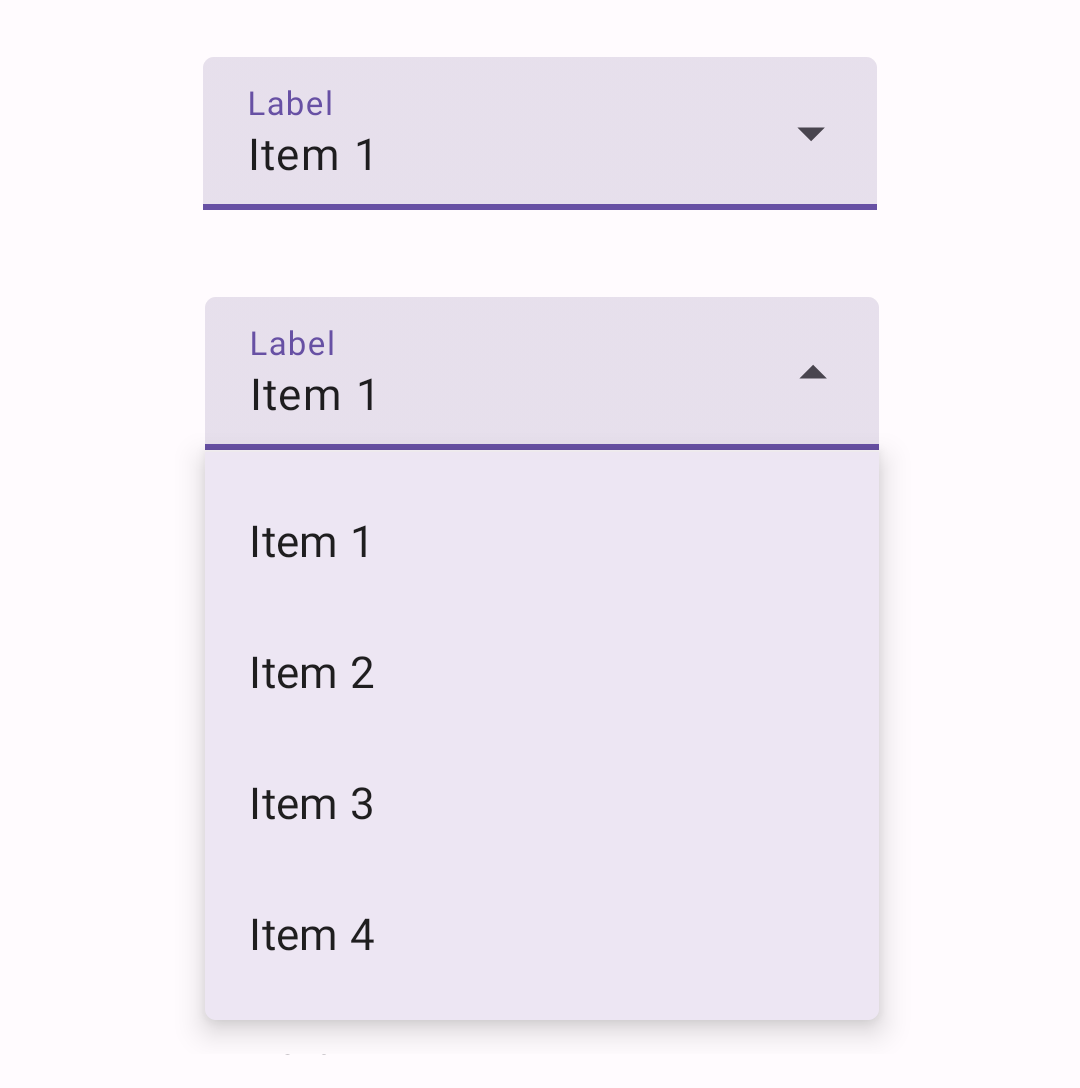
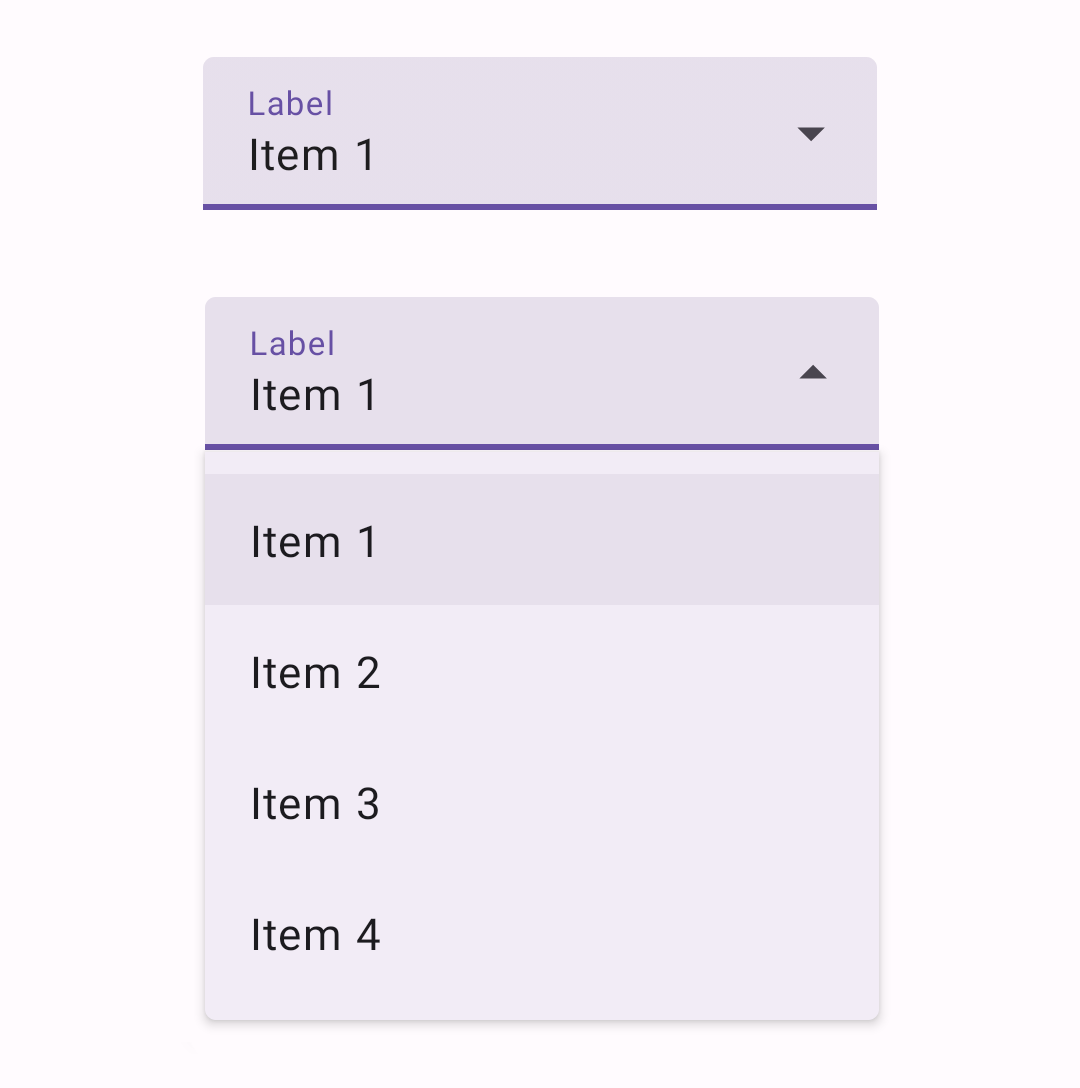
[ExposedDropdownMenu] Added support for default/ripple background colors for the selected item of the exposed dropdown menu when the default MaterialAutoCompleteArrayAdapter is being used.
PiperOrigin-RevId: 447531152

diff --git a/lib/java/com/google/android/material/textfield/MaterialAutoCompleteTextView.java b/lib/java/com/google/android/material/textfield/MaterialAutoCompleteTextView.java
@@ -21,15 +21,21 @@ import com.google.android.material.R;
 import static com.google.android.material.theme.overlay.MaterialThemeOverlay.wrap;
 
 import android.content.Context;
+import android.content.res.ColorStateList;
 import android.content.res.TypedArray;
+import android.graphics.Color;
 import android.graphics.Rect;
+import android.graphics.drawable.ColorDrawable;
 import android.graphics.drawable.Drawable;
+import android.graphics.drawable.RippleDrawable;
 import android.os.Build.VERSION;
+import android.os.Build.VERSION_CODES;
 import androidx.appcompat.widget.AppCompatAutoCompleteTextView;
 import androidx.appcompat.widget.ListPopupWindow;
 import android.text.InputType;
 import android.util.AttributeSet;
 import android.view.View;
+import android.view.ViewGroup;
 import android.view.ViewGroup.LayoutParams;
 import android.view.ViewParent;
 import android.view.accessibility.AccessibilityManager;
@@ -38,12 +44,17 @@ import android.widget.AdapterView.OnItemClickListener;
 import android.widget.ArrayAdapter;
 import android.widget.Filterable;
 import android.widget.ListAdapter;
+import android.widget.TextView;
 import androidx.annotation.ArrayRes;
 import androidx.annotation.LayoutRes;
 import androidx.annotation.NonNull;
 import androidx.annotation.Nullable;
+import androidx.core.graphics.drawable.DrawableCompat;
+import androidx.core.view.ViewCompat;
+import com.google.android.material.color.MaterialColors;
 import com.google.android.material.internal.ManufacturerUtils;
 import com.google.android.material.internal.ThemeEnforcement;
+import com.google.android.material.resources.MaterialResources;
 
 /**
  * A special sub-class of {@link android.widget.AutoCompleteTextView} that is auto-inflated so that
@@ -51,10 +62,10 @@ import com.google.android.material.internal.ThemeEnforcement;
  * interacted through a screen reader.
  *
  * <p>The {@link ListPopupWindow} of the {@link android.widget.AutoCompleteTextView} is not modal,
- * so it does not grab accessibility focus. The {@link MaterialAutoCompleteTextView} changes that
- * by having a modal {@link ListPopupWindow} that is displayed instead of the non-modal one, so that
- * the first item of the popup is automatically focused. This simulates the behavior of the
- * {@link android.widget.Spinner}.
+ * so it does not grab accessibility focus. The {@link MaterialAutoCompleteTextView} changes that by
+ * having a modal {@link ListPopupWindow} that is displayed instead of the non-modal one, so that
+ * the first item of the popup is automatically focused. This simulates the behavior of the {@link
+ * android.widget.Spinner}.
  */
 public class MaterialAutoCompleteTextView extends AppCompatAutoCompleteTextView {
 
@@ -65,6 +76,8 @@ public class MaterialAutoCompleteTextView extends AppCompatAutoCompleteTextView 
   @NonNull private final Rect tempRect = new Rect();
   @LayoutRes private final int simpleItemLayout;
   private final float popupElevation;
+  private int simpleItemSelectedColor;
+  @Nullable private ColorStateList simpleItemSelectedRippleColor;
 
   public MaterialAutoCompleteTextView(@NonNull Context context) {
     this(context, null);
@@ -100,14 +113,23 @@ public class MaterialAutoCompleteTextView extends AppCompatAutoCompleteTextView 
       }
     }
 
-    simpleItemLayout = attributes.getResourceId(
-        R.styleable.MaterialAutoCompleteTextView_simpleItemLayout,
-        R.layout.mtrl_auto_complete_simple_item);
-
+    simpleItemLayout =
+        attributes.getResourceId(
+            R.styleable.MaterialAutoCompleteTextView_simpleItemLayout,
+            R.layout.mtrl_auto_complete_simple_item);
     popupElevation =
         attributes.getDimensionPixelOffset(
             R.styleable.MaterialAutoCompleteTextView_android_popupElevation,
             R.dimen.mtrl_exposed_dropdown_menu_popup_elevation);
+
+    simpleItemSelectedColor =
+        attributes.getColor(
+            R.styleable.MaterialAutoCompleteTextView_simpleItemSelectedColor, Color.TRANSPARENT);
+    simpleItemSelectedRippleColor =
+        MaterialResources.getColorStateList(
+            context,
+            attributes,
+            R.styleable.MaterialAutoCompleteTextView_simpleItemSelectedRippleColor);
 
     accessibilityManager =
         (AccessibilityManager) context.getSystemService(Context.ACCESSIBILITY_SERVICE);
@@ -191,7 +213,65 @@ public class MaterialAutoCompleteTextView extends AppCompatAutoCompleteTextView 
    * @see #setAdapter(ListAdapter)
    */
   public void setSimpleItems(@NonNull String[] stringArray) {
-    setAdapter(new ArrayAdapter<>(getContext(), simpleItemLayout, stringArray));
+    setAdapter(new MaterialArrayAdapter<>(getContext(), simpleItemLayout, stringArray));
+  }
+
+  /**
+   * Sets the color of the default selected popup dropdown item to be used along with
+   * {@code R.attr.simpleItemLayout}.
+   *
+   * @param simpleItemSelectedColor the selected item color
+   * @see #getSimpleItemSelectedColor()
+   * @see #setSimpleItems(int)
+   * @attr ref
+   *     com.google.android.material.R.styleable#MaterialAutoCompleteTextView_simpleItemSelectedColor
+   */
+  public void setSimpleItemSelectedColor(int simpleItemSelectedColor) {
+    this.simpleItemSelectedColor = simpleItemSelectedColor;
+    if (getAdapter() instanceof MaterialArrayAdapter) {
+      ((MaterialArrayAdapter) getAdapter()).updateSelectedItemColorStateList();
+    }
+  }
+
+  /**
+   * Returns the color of the default selected popup dropdown item.
+   *
+   * @see #setSimpleItemSelectedColor(int)
+   * @attr ref
+   *     com.google.android.material.R.styleable#MaterialAutoCompleteTextView_simpleItemSelectedColor
+   */
+  public int getSimpleItemSelectedColor() {
+    return simpleItemSelectedColor;
+  }
+
+  /**
+   * Sets the ripple color of the selected popup dropdown item to be used along with
+   * {@code R.attr.simpleItemLayout}.
+   *
+   * @param simpleItemSelectedRippleColor the ripple color state list
+   * @see #getSimpleItemSelectedRippleColor()
+   * @see #setSimpleItems(int)
+   * @attr ref
+   *     com.google.android.material.R.styleable#MaterialAutoCompleteTextView_simpleItemSelectedRippleColor
+   */
+  public void setSimpleItemSelectedRippleColor(
+      @Nullable ColorStateList simpleItemSelectedRippleColor) {
+    this.simpleItemSelectedRippleColor = simpleItemSelectedRippleColor;
+    if (getAdapter() instanceof MaterialArrayAdapter) {
+      ((MaterialArrayAdapter) getAdapter()).updateSelectedItemColorStateList();
+    }
+  }
+
+  /**
+   * Returns the ripple color of the default selected popup dropdown item, or null if not set.
+   *
+   * @see #setSimpleItemSelectedRippleColor(ColorStateList)
+   * @attr ref
+   *     com.google.android.material.R.styleable#MaterialAutoCompleteTextView_simpleItemSelectedRippleColor
+   */
+  @Nullable
+  public ColorStateList getSimpleItemSelectedRippleColor() {
+    return simpleItemSelectedRippleColor;
   }
 
   /**
@@ -323,6 +403,112 @@ public class MaterialAutoCompleteTextView extends AppCompatAutoCompleteTextView 
       setAdapter(null);
       setText(convertSelectionToString(selectedItem));
       setAdapter((T) adapter);
+    }
+  }
+
+  /** ArrayAdapter for the {@link MaterialAutoCompleteTextView}. */
+  private class MaterialArrayAdapter<T> extends ArrayAdapter<String> {
+
+    @Nullable private ColorStateList selectedItemRippleOverlaidColor;
+    @Nullable private ColorStateList pressedRippleColor;
+
+    MaterialArrayAdapter(
+        @NonNull Context context, int resource, @NonNull String[] objects) {
+      super(context, resource, objects);
+      updateSelectedItemColorStateList();
+    }
+
+    void updateSelectedItemColorStateList() {
+      pressedRippleColor = sanitizeDropdownItemSelectedRippleColor();
+      selectedItemRippleOverlaidColor = createItemSelectedColorStateList();
+    }
+
+    @Override
+    public View getView(int position, @Nullable View convertView, ViewGroup parent) {
+      View view = super.getView(position, convertView, parent);
+
+      if (view instanceof TextView) {
+        TextView textView = (TextView) view;
+        boolean isSelectedItem = getText().toString().contentEquals(textView.getText());
+        ViewCompat.setBackground(textView, isSelectedItem ? getSelectedItemDrawable() : null);
+      }
+
+      return view;
+    }
+
+    @Nullable
+    private Drawable getSelectedItemDrawable() {
+      if (!hasSelectedColor() || VERSION.SDK_INT < VERSION_CODES.LOLLIPOP) {
+        return null;
+      }
+
+      // The adapter calls getView with the same position multiple times with different views,
+      // meaning we can't know which view is actually being used to show the list item. We need to
+      // create the drawable on every call, otherwise there can be a race condition causing the
+      // background color to not be updated to the right state.
+      Drawable colorDrawable = new ColorDrawable(simpleItemSelectedColor);
+      if (pressedRippleColor != null) {
+        // The ListPopupWindow takes over the states of its list items in order to implement its
+        // own ripple. That makes the RippleDrawable not work as expected, i.e. it will respond to
+        // pressed states, but not to other states like focused and hovered. To solve that, we
+        // create the selectedItemRippleOverlaidColor that will work in those missing states, making
+        // the selected list item stateful as expected.
+        DrawableCompat.setTintList(colorDrawable, selectedItemRippleOverlaidColor);
+        return new RippleDrawable(pressedRippleColor, colorDrawable, null);
+      } else {
+        return colorDrawable;
+      }
+    }
+
+    @Nullable
+    private ColorStateList createItemSelectedColorStateList() {
+      if (!hasSelectedColor()
+          || !hasSelectedRippleColor()
+          || VERSION.SDK_INT < VERSION_CODES.LOLLIPOP) {
+        return null;
+      }
+      int[] stateHovered = new int[] {android.R.attr.state_hovered, -android.R.attr.state_pressed};
+      int[] stateSelected =
+          new int[] {android.R.attr.state_selected, -android.R.attr.state_pressed};
+      int colorSelected =
+          simpleItemSelectedRippleColor.getColorForState(stateSelected, Color.TRANSPARENT);
+      int colorHovered =
+          simpleItemSelectedRippleColor.getColorForState(stateHovered, Color.TRANSPARENT);
+      // Use ripple colors overlaid over selected color.
+      int[] colors =
+          new int[] {
+            MaterialColors.layer(simpleItemSelectedColor, colorSelected),
+            MaterialColors.layer(simpleItemSelectedColor, colorHovered),
+            simpleItemSelectedColor
+          };
+      int[][] states = new int[][] {stateSelected, stateHovered, new int[] {}};
+
+      return new ColorStateList(states, colors);
+    }
+
+    private ColorStateList sanitizeDropdownItemSelectedRippleColor() {
+      if (!hasSelectedRippleColor()) {
+        return null;
+      }
+
+      // We need to ensure that the ripple drawable we create will show a color only for the pressed
+      // state so that the final ripple over the item view will be the correct color.
+      int[] statePressed = new int[] {android.R.attr.state_pressed};
+      int[] colors =
+          new int[] {
+              simpleItemSelectedRippleColor.getColorForState(statePressed, Color.TRANSPARENT),
+              Color.TRANSPARENT
+          };
+      int[][] states = new int[][] {statePressed, new int[] {}};
+      return new ColorStateList(states, colors);
+    }
+
+    private boolean hasSelectedColor() {
+      return simpleItemSelectedColor != Color.TRANSPARENT;
+    }
+
+    private boolean hasSelectedRippleColor() {
+      return simpleItemSelectedRippleColor != null;
     }
   }
 }

diff --git a/tests/javatests/com/google/android/material/textfield/ExposedDropdownMenuTest.java b/tests/javatests/com/google/android/material/textfield/ExposedDropdownMenuTest.java
@@ -40,6 +40,8 @@ import static org.hamcrest.core.Is.is;
 import static org.junit.Assert.assertNull;
 
 import android.app.Activity;
+import android.content.res.ColorStateList;
+import android.graphics.Color;
 import android.graphics.drawable.Drawable;
 import android.graphics.drawable.LayerDrawable;
 import android.text.InputType;
@@ -121,6 +123,27 @@ public class ExposedDropdownMenuTest {
     assertThat(editableTypeBackground, not(instanceOf(LayerDrawable.class)));
     // Assert second switch updated the background back to an instance of LayerDrawable.
     assertThat(editText.getBackground(), instanceOf(LayerDrawable.class));
+  }
+
+  @Test
+  public void testSetSimpleItemSelectedColor_succeeds() {
+    Activity activity = activityTestRule.getActivity();
+    MaterialAutoCompleteTextView editText = activity.findViewById(R.id.edittext_filled);
+
+    editText.setSimpleItemSelectedColor(Color.BLUE);
+
+    assertThat(editText.getSimpleItemSelectedColor(), is(Color.BLUE));
+  }
+
+  @Test
+  public void testSetSimpleItemSelectedRippleColor_succeeds() {
+    Activity activity = activityTestRule.getActivity();
+    MaterialAutoCompleteTextView editText = activity.findViewById(R.id.edittext_filled);
+
+    editText.setSimpleItemSelectedRippleColor(ColorStateList.valueOf(Color.BLUE));
+
+    assertThat(
+        editText.getSimpleItemSelectedRippleColor(), is(ColorStateList.valueOf(Color.BLUE)));
   }
 
   @Test

diff --git a/docs/components/Menu.md b/docs/components/Menu.md
@@ -562,19 +562,21 @@ The exposed dropdown menu is an `AutoCompleteTextView` within a
 For all attributes that apply to the `TextInputLayout`, see the
 [TextInputLayout documentation](TextField.md).
 
-#### `AutoCompleteTextView` attributes (input text, dropdown menu)
+#### `MaterialAutoCompleteTextView` attributes (input text, dropdown menu)
 
-Element                               | Attribute                                                           | Related method(s)                                            | Default value
-------------------------------------- | ------------------------------------------------------------------- | ------------------------------------------------------------ | -------------
-**Input text**                        | `android:text`                                                      | `setText`<br/>`getText`                                      | `@null`
-**Typography**                        | `android:textAppearance`                                            | `setTextAppearance`                                          | `?attr/textAppearanceBodyLarge`
-**Input accepted**                    | `android:inputType`                                                 | `N/A`                                                        | framework's default
-**Input text color**                  | `android:textColor`                                                 | `setTextColor`<br/>`getTextColors`<br/>`getCurrentTextColor` | `?android:textColorPrimary`
-**Cursor color**                      | N/A (color comes from the theme attr `?attr/colorControlActivated`) | N/A                                                          | `?attr/colorPrimary`
-**Dropdown menu<br/>container color** | N/A                                                                 | N/A                                                          | `?attr/colorSurface`
-**Dropdown menu elevation**           | `android:popupElevation`                                            | `getPopupElevation`                                          | `3dp`
-**Simple items**                      | `app:simpleItems`                                                   | `setSimpleItems`                                             | `null`
-**Simple item layout**                | `app:simpleItemLayout`                                              | N/A                                                          | `@layout/m3_auto_complete_simple_item`
+Element                                   | Attribute                                                           | Related method(s)                                                             | Default value
+----------------------------------------- | ------------------------------------------------------------------- | ----------------------------------------------------------------------------- | -------------
+**Input text**                            | `android:text`                                                      | `setText`<br/>`getText`                                                       | `@null`
+**Typography**                            | `android:textAppearance`                                            | `setTextAppearance`                                                           | `?attr/textAppearanceBodyLarge`
+**Input accepted**                        | `android:inputType`                                                 | `N/A`                                                                         | framework's default
+**Input text color**                      | `android:textColor`                                                 | `setTextColor`<br/>`getTextColors`<br/>`getCurrentTextColor`                  | `?android:textColorPrimary`
+**Cursor color**                          | N/A (color comes from the theme attr `?attr/colorControlActivated`) | N/A                                                                           | `?attr/colorPrimary`
+**Dropdown menu<br/>container color**     | N/A                                                                 | N/A                                                                           | `?attr/colorSurface`
+**Dropdown menu elevation**               | `android:popupElevation`                                            | `getPopupElevation`                                                           | `3dp`
+**Simple items**                          | `app:simpleItems`                                                   | `setSimpleItems`                                                              | `null`
+**Simple item layout**                    | `app:simpleItemLayout`                                              | N/A                                                                           | `@layout/m3_auto_complete_simple_item`
+**Selected simple item color**            | `app:simpleItemSelectedColor`                                       | `setSimpleItemSelectedColor`<br/>`getSimpleItemSelectedColor`                 | `?attr/colorSurfaceVariant`
+**Selected simple item<br/>ripple color** | `app:simpleItemSelectedRippleColor`                                 | `setSimpleItemSelectedRippleColor`<br/>`getSimpleItemSelectedRippleColor`     | `@color/m3_simple_item_ripple_color`
 
 #### Styles
 

diff --git a/docs/components/TextField.md b/docs/components/TextField.md
@@ -206,7 +206,7 @@ See the full list of
 
 ### Implementing an exposed dropdown menu
 
-!["Text field with an exposed dropdown menu."](assets/textfields/textfields_exposed_dropdown_menu.png)
+!["Text field with an exposed dropdown menu."](assets/menu/menus_exposed_dropdown_outlined.png)
 
 In the layout:
 
